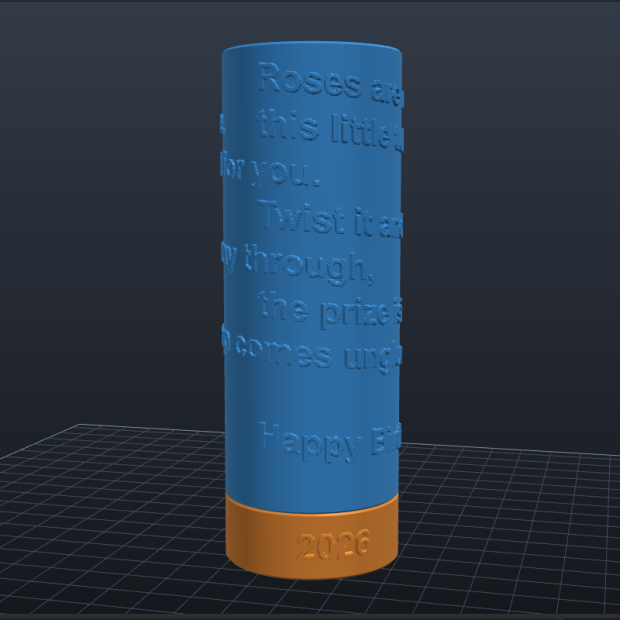
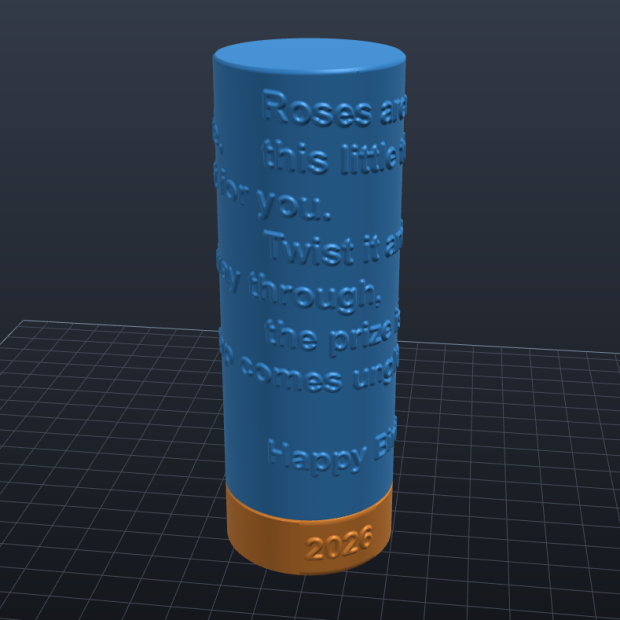
Maze Tube Designer 1.2.1: smooth, rounded lettering
Text on the cap and base came out blocky: letter edges were on/off steps
that could only follow the mesh grid, so curves and diagonals turned into
staircases.

- Letter edges are now a rounded ramp (Gaussian-softened relief) that the
  mesh can follow at any angle; letters still reach their full height.
- Finer mesh under text (down to 0.2 mm) and grid quads split along the
  diagonal that follows the surface.
- The 3D view shades curved surfaces smoothly while keeping maze edges crisp.
- Test that no letter edge jumps more than half its height between mesh points.

diff --git a/mazetube/textmask.py b/mazetube/textmask.py
@@ -106,9 +106,16 @@ class TextLayout:
         font = _make_font(cap_height / px / ratio)
         fm = QFontMetricsF(font)
         self.cap_height = fm.capHeight() * px                # what the font really gives
-        self.line_px = int(math.ceil(fm.ascent() + fm.descent()))
-        self.pitch = self.line_px * px * LEADING             # mm from one line to the next
-        strips = [_render_line(ln, font, fm, self.line_px) for ln in lines]
+        ink_px = int(math.ceil(fm.ascent() + fm.descent()))
+        self.line_px = int(math.ceil(ink_px * LEADING))      # one row: the ink plus its leading
+        self.pitch = self.line_px * px                       # mm from one line to the next
+        top = (self.line_px - ink_px) // 2
+        strips = []
+        for ln in lines:
+            ink = _render_line(ln, font, fm, ink_px)
+            row = np.zeros((self.line_px, ink.shape[1]), dtype=np.uint8)
+            row[top:top + ink_px] = ink
+            strips.append(row)
         widths = [s.shape[1] * px for s in strips]
         self.max_line = max(widths) if widths else 0.0
         self.empty = not any(s.any() for s in strips)
@@ -136,14 +143,14 @@ class TextLayout:
         else:
             # lines stacked and centred in one block
             pad = max(3, int(math.ceil(MARGIN / px)))
-            row = int(round(self.pitch / px))
+            row = self.line_px
             w = max((s.shape[1] for s in strips), default=0) + 2 * pad
             h = row * len(strips) + 2 * pad
             block = np.zeros((h, w), dtype=np.float32)
             for i, strip in enumerate(strips):
                 x = (w - strip.shape[1]) // 2
-                y = pad + i * row + (row - self.line_px) // 2
-                block[y:y + self.line_px, x:x + strip.shape[1]] = strip / 255.0
+                y = pad + i * row
+                block[y:y + row, x:x + strip.shape[1]] = strip / 255.0
             self.block = block
             self.turns = 0.0
             self.height = h * px
@@ -155,10 +162,12 @@ class TextLayout:
             return f"{what}, spiral of {self.turns:.1f} turns"
         return what
 
-    def make_band(self, r_ref, z_low, depth, pitch, centre_angle, start_angle):
+    def make_band(self, r_ref, z_low, depth, pitch, centre_angle, start_angle, soft=0.0):
+        """Place the text on a wall.  ``soft`` (mm) rounds the letter edges (see _soften)."""
         if self.spiral:
-            return SpiralBand(self, r_ref, z_low, depth, pitch, start_angle)
-        return TextBand(self.block, self.px, centre_angle, r_ref, z_low, depth, pitch)
+            return SpiralBand(self, r_ref, z_low, depth, pitch, start_angle, soft)
+        return TextBand(_soften(self.block, soft / self.px), self.px, centre_angle, r_ref,
+                        z_low, depth, pitch)
 
 
 def layout_text(text: str, cap_height: float, circumference: float, px: float):
@@ -169,10 +178,44 @@ def layout_text(text: str, cap_height: float, circumference: float, px: float):
     return None if layout.empty else layout
 
 
+def _soften(img, sigma_px):
+    """Round the letter edges: a Gaussian blur of the coverage, as float32 in 0..1.
+
+    A hard on/off edge can only follow the mesh grid, which makes curves and
+    diagonals come out as staircases.  Blurring turns every edge into a smooth
+    ramp a couple of grid cells wide - a rounded bevel - which the mesh can
+    follow at any angle.  The half-height line stays on the true outline.
+    """
+    img = np.asarray(img, dtype=np.float32)
+    if img.dtype != np.float32 or img.max(initial=0.0) > 1.0:
+        img = img.astype(np.float32) / 255.0
+    if sigma_px < 0.3 or img.size == 0:
+        return img
+    k = int(math.ceil(3.0 * sigma_px))
+    offs = np.arange(-k, k + 1)
+    w = np.exp(-0.5 * (offs / sigma_px) ** 2)
+    w = (w / w.sum()).astype(np.float32)
+    for axis in (1, 0):
+        out = np.zeros_like(img)
+        n = img.shape[axis]
+        for off, wt in zip(offs, w):
+            if abs(off) >= n:
+                continue
+            src = [slice(None)] * 2
+            dst = [slice(None)] * 2
+            if off > 0:
+                src[axis], dst[axis] = slice(0, n - off), slice(off, n)
+            elif off < 0:
+                src[axis], dst[axis] = slice(-off, n), slice(0, n + off)
+            out[tuple(dst)] += wt * img[tuple(src)]
+        img = out
+    # a touch of contrast: full height on normal strokes, no faint halo round them
+    return np.clip((img - 0.06) / 0.88, 0.0, 1.0)
+
+
 def _finish(cov, depth, z, limit_slope):
-    """Coverage (0..1) -> radial offset, optionally limited to 45° along z."""
-    # sharpen the anti-aliased edge a little so strokes keep crisp walls
-    out = np.clip((cov - 0.25) / 0.5, 0.0, 1.0) * abs(depth)
+    """Relief (0..1) -> radial offset, optionally limited to 45° along z."""
+    out = np.clip(cov, 0.0, 1.0) * abs(depth)
     if limit_slope and out.shape[1] > 1:
         dz = np.abs(np.diff(z))
         for k in range(1, out.shape[1]):
@@ -244,7 +287,7 @@ class TextBand:
         h, w = self.mask.shape
         U, V = np.broadcast_arrays(u[:, None], v[None, :])
         valid = (U >= 0) & (U <= w - 1) & (V >= 0) & (V <= h - 1)
-        return _finish(_bilinear(self.mask, U, V, valid), self.depth, z, limit_slope)
+        return _finish(_bilinear(self.mask, U, V, valid), self.depth, z, limit_slope)   # mask: relief 0..1
 
 
 class SpiralBand:
@@ -257,8 +300,8 @@ class SpiralBand:
 
     spiral = True
 
-    def __init__(self, layout: TextLayout, r_ref, z_low, depth, pitch, start_angle):
-        self.strip = layout.strip
+    def __init__(self, layout: TextLayout, r_ref, z_low, depth, pitch, start_angle, soft=0.0):
+        self.strip = _soften(layout.strip, soft / layout.px)     # relief 0..1 along the helix
         self.px = layout.px
         self.pitch = pitch                        # mesh grid spacing (mm)
         self.r_ref = r_ref
@@ -292,10 +335,8 @@ class SpiralBand:
         top = self.z_text - self.line_pitch * x / self.turn        # top of turn 0 at this angle
         q = (top[:, None] - z[None, :]) / self.line_pitch          # which turn, and how far down it
         t = np.floor(q)
-        h, w = self.strip.shape
-        lead = (self.line_pitch / self.px - h) / 2.0               # leading above the glyph row
-        v = (q - t) * self.line_pitch / self.px - lead - 0.5
+        h, w = self.strip.shape                                    # one row = one line pitch
+        v = (q - t) * self.line_pitch / self.px - 0.5
         u = (x[:, None] + t * self.turn) / self.px - 0.5
         valid = (t >= 0) & (u >= 0) & (u <= w - 1) & (v >= 0) & (v <= h - 1)
-        cov = _bilinear(self.strip, u, v, valid) / 255.0
-        return _finish(cov, self.depth, z, limit_slope)
+        return _finish(_bilinear(self.strip, u, v, valid), self.depth, z, limit_slope)

diff --git a/mazetube/geometry.py b/mazetube/geometry.py
@@ -565,7 +565,7 @@ class TubeDesign:
         if p.text_height < 2.5:
             self.warnings.append("Letter height is below 2.5 mm - too small to print, text left off.")
             return
-        self._text_grid = min(0.6, max(0.25, p.text_height / 24.0))   # mesh spacing under text
+        self._text_grid = min(0.6, max(0.2, p.text_height / 30.0))    # mesh spacing under text
         for key, text in texts.items():
             layout = layout_text(text, p.text_height, TWO_PI * self.R_out, self._text_grid / 2.0)
             if layout is not None:
@@ -659,8 +659,11 @@ class TubeDesign:
             width = TWO_PI * self.R_out if layout.spiral else layout.block.shape[1] * layout.px
             grid = max(self._text_grid, math.sqrt(width * layout.height / 250000.0))
             z_low = lo + 0.5 * (hi - lo - layout.height)
+            # letter edges are rounded over a width the mesh can follow (and to 45° for
+            # spiral vase printing), which is what keeps curves from looking blocky
+            soft = max((0.46 if self.vase else 0.33) * dep, 0.85 * grid)
             self.bands[key] = layout.make_band(self.R_out, z_low, -dep if engrave else dep,
-                                               grid, centre, start)
+                                               grid, centre, start, soft)
             self.bands[key].layout = layout
 
     # ----------------------------------------------------------------- split
@@ -1342,14 +1345,26 @@ def _sweep(th, r, z, z_start, z_end):
     b = (i2[:, None] * K + k[None, :]).ravel()
     c = (i2[:, None] * K + k[None, :] + 1).ravel()
     d = (i[:, None] * K + k[None, :] + 1).ravel()
-    quads1 = np.stack([a, b, c], 1)
-    quads2 = np.stack([a, c, d], 1)
+    quads1, quads2 = _split_quads(r, a, b, c, d)
     fan_s = np.stack([np.full(T, vs), i2 * K, i * K], 1)
     fan_e = np.stack([np.full(T, ve), i * K + K - 1, i2 * K + K - 1], 1)
     faces = np.concatenate([fan_s, quads1, quads2, fan_e]).astype(np.int64)
     if mesh_volume(verts, faces) < 0:
         faces = faces[:, ::-1].copy()
     return verts, faces
+
+
+def _split_quads(r, a, b, c, d):
+    """Two triangles per grid quad, split along the diagonal with the smaller step.
+
+    On a relief (text, bevels) a fixed diagonal makes slanted edges saw-toothed;
+    joining the two corners that are closest in radius follows the shape instead.
+    """
+    rf = r.ravel()
+    other = np.abs(rf[b] - rf[d]) < np.abs(rf[a] - rf[c]) - 1e-12
+    t1 = np.where(other[:, None], np.stack([a, b, d], 1), np.stack([a, b, c], 1))
+    t2 = np.where(other[:, None], np.stack([b, c, d], 1), np.stack([a, c, d], 1))
+    return t1, t2
 
 
 def mesh_volume(verts, faces) -> float:
@@ -1410,7 +1425,7 @@ def _sweep_loop(th, r, z):
     b = (i2[:, None] * K + k[None, :]).ravel()
     c = (i2[:, None] * K + k2[None, :]).ravel()
     d = (i[:, None] * K + k2[None, :]).ravel()
-    faces = np.concatenate([np.stack([a, b, c], 1), np.stack([a, c, d], 1)]).astype(np.int64)
+    faces = np.concatenate(_split_quads(r, a, b, c, d)).astype(np.int64)
     if mesh_volume(verts, faces) < 0:
         faces = faces[:, ::-1].copy()
     return verts, faces

diff --git a/mazetube/viewer.py b/mazetube/viewer.py
@@ -107,16 +107,39 @@ def make_transform(rot_z=0.0, flip=False, offset=(0.0, 0.0, 0.0)):
     return t @ m
 
 
+CREASE_COS = math.cos(math.radians(21.0))        # edges sharper than this are drawn crisp
+CREASE_COS_FINE = math.cos(math.radians(42.0))   # ... but fine relief (lettering) may curve more
+FINE_AREA = 0.15                                 # mm²: triangles smaller than this are "fine"
+
+
 class _Mesh:
     def __init__(self, verts, faces, color):
         tri = verts[faces].astype(np.float32)                     # (m,3,3)
-        n = np.cross(tri[:, 1] - tri[:, 0], tri[:, 2] - tri[:, 0])
-        ln = np.linalg.norm(n, axis=1, keepdims=True)
+        area_n = np.cross(tri[:, 1] - tri[:, 0], tri[:, 2] - tri[:, 0])    # length = 2 x area
+        ln = np.linalg.norm(area_n, axis=1, keepdims=True)
+        area = 0.5 * ln[:, 0]
         ln[ln == 0] = 1
-        n = (n / ln).astype(np.float32)
+        n = (area_n / ln).astype(np.float32)
+        # Smooth shading where the surface curves gently (the tube wall, rounded
+        # lettering); flat shading at real edges (maze walls, chamfers).  A vertex
+        # is smooth only if every face round it is close to the averaged normal,
+        # so a sharp edge never bleeds a tilted normal into the faces beside it.
+        nv = len(verts)
+        flat_idx = faces.ravel()
+        vn = np.stack([np.bincount(flat_idx, weights=np.repeat(area_n[:, k], 3), minlength=nv)
+                       for k in range(3)], 1)
+        vl = np.linalg.norm(vn, axis=1, keepdims=True)
+        vl[vl == 0] = 1
+        vn = (vn / vl).astype(np.float32)
+        coarse = np.bincount(flat_idx, weights=np.repeat(area > FINE_AREA, 3), minlength=nv) > 0
+        limit = np.where(coarse, CREASE_COS, CREASE_COS_FINE)
+        corner_vn = vn[faces]                                     # (m,3,3)
+        too_sharp = np.einsum("mij,mj->mi", corner_vn, n) < limit[faces]
+        creased = np.bincount(flat_idx, weights=too_sharp.ravel(), minlength=nv) > 0
+        smooth = ~creased[faces]
         data = np.empty((len(faces), 3, 6), dtype=np.float32)
         data[:, :, :3] = tri
-        data[:, :, 3:] = n[:, None, :]
+        data[:, :, 3:] = np.where(smooth[:, :, None], corner_vn, n[:, None, :])
         self.data = data.reshape(-1, 6)
         self.count = len(self.data)
         self.lo = verts.min(axis=0)

diff --git a/tests/test_geometry.py b/tests/test_geometry.py
@@ -371,6 +371,18 @@ def check_text():
                                 cap_text="Cheers!", base_text="2026"), "text on three pieces")
     assert d.three and d.bands["cap"].z0 > d.z_sh, "cap text sits on the cap end, above the joint"
 
+    # letter edges are rounded ramps the mesh can follow, not on/off steps (which made
+    # curves and diagonals come out as staircases)
+    for kw in (dict(cap_text="Happy Birthday"), dict(cap_text="Sphinx of black quartz, judge my vow. "
+                                                              "Pack my box with five dozen jugs.")):
+        d = TubeDesign(TubeParams(**kw))
+        band = d.bands["cap"]
+        relief = band.sample(np.sort(band.theta_lines()), band.z_lines())
+        assert abs(relief.max() - 0.6) < 0.02, "letters still reach their full height"
+        for axis in (0, 1):
+            step = np.abs(np.diff(relief, axis=axis)).max()
+            assert step <= 0.5 * 0.6, f"letter edge jumps {step:.2f} mm between mesh points"
+
     d = TubeDesign(TubeParams(cap_text="   "))
     assert not d.bands and not d.warnings
     print("text: raised / engraved / vase / stacked lines / spiral poem / three pieces  OK")

diff --git a/mazetube/__init__.py b/mazetube/__init__.py
@@ -1,3 +1,3 @@
 """Maze Tube Designer - generate printable cylinder maze puzzle boxes."""
 
-__version__ = "1.2.0"
+__version__ = "1.2.1"

diff --git a/README.md b/README.md
@@ -145,8 +145,8 @@ tube stands on its base, and the letters keep the height you set.
   below the maze taller. The maze keeps its rows.
 * Letters are only made smaller when the printer height can't hold the text at full size, and the
   panel says so when that happens.
-* Letters are raised 0.6 mm by default. Detailed mode has the depth and an **Engraved** option that
-  cuts them into the wall instead.
+* Letters are raised 0.6 mm by default, with rounded edges so curves come out smooth. Detailed mode
+  has the depth and an **Engraved** option that cuts them into the wall instead.
 * In spiral vase mode the letters get 45° edges, and cap text is always raised (cutting in would use
   up the fit clearance).
 * A long poem makes a detailed mesh (several hundred thousand triangles), so the design takes a
